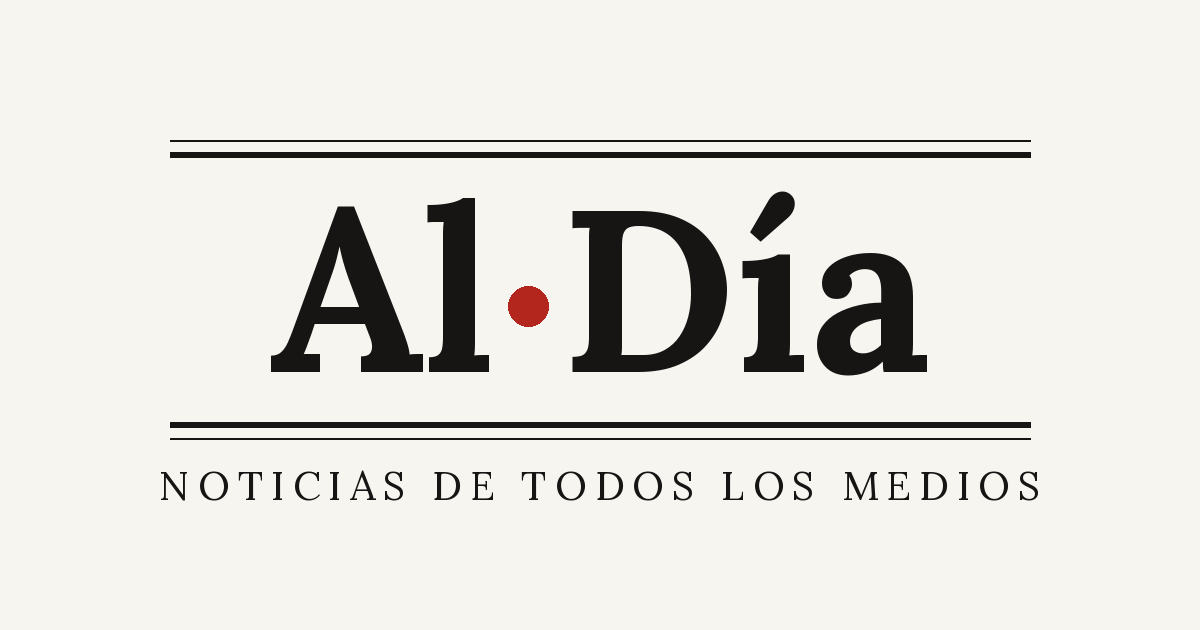
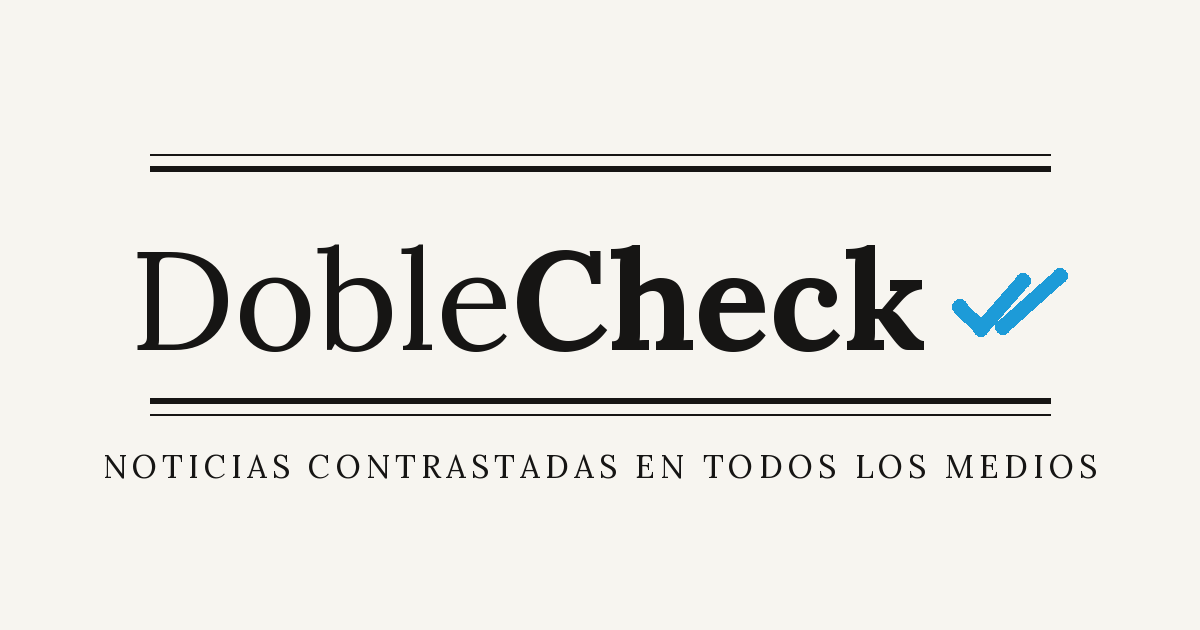
Nueva marca: DobleCheck ✓✓
- Web: logotipo DobleCheck con doble check azul; la insignia de medios lleva el doble check
- Telegram: cabecera 𝕯𝖔𝖇𝖑𝖊𝕮𝖍𝖊𝖈𝖐 ✓✓ y «Confirmada por N medios»
- Páginas para compartir, títulos y Open Graph con el nuevo nombre
- Logotipos del canal (marca/) e imagen para compartir (docs/og.png) nuevos

Claude-Session: https://claude.ai/code/session_012vF4AGN3cvLxcuT7Bb4TW5

Changed region(s): [[0.0925, 0.3016, 0.8942, 0.6032], [0.0925, 0.6333, 0.925, 0.8143], [0.1233, 0.2111, 0.8942, 0.2714]]

diff --git a/docs/index.html b/docs/index.html
@@ -3,11 +3,11 @@
 <head>
 <meta charset="utf-8">
 <meta name="viewport" content="width=device-width, initial-scale=1">
-<title>Al Día · Noticias de todos los medios</title>
+<title>DobleCheck · Noticias contrastadas en todos los medios</title>
 <meta name="description" content="Las noticias de todos los medios españoles, agrupadas y actualizadas cada 15 minutos.">
 <meta property="og:type" content="website">
-<meta property="og:site_name" content="Al·Día">
-<meta property="og:title" content="Al·Día · Noticias de todos los medios">
+<meta property="og:site_name" content="DobleCheck">
+<meta property="og:title" content="DobleCheck · Noticias contrastadas en todos los medios">
 <meta property="og:description" content="Las noticias de todos los medios españoles, agrupadas y actualizadas cada 15 minutos.">
 <meta property="og:image" content="og.png">
 <meta name="twitter:card" content="summary_large_image">
@@ -15,13 +15,13 @@
 <style>
   :root {
     --bg: #f7f5f0; --paper: #fff; --ink: #161514; --muted: #6b6760; --line: #e3dfd6;
-    --accent: #b3261e; --chip: #efebe3; --new: #1f6f43;
+    --accent: #b3261e; --chip: #efebe3; --new: #1f6f43; --check: #1d9bd8;
     --serif: "Iowan Old Style", "Palatino Linotype", Palatino, Georgia, serif;
     --sans: -apple-system, BlinkMacSystemFont, "Segoe UI", Roboto, Helvetica, Arial, sans-serif;
   }
   @media (prefers-color-scheme: dark) {
     :root { --bg: #141312; --paper: #1c1b19; --ink: #ece8e1; --muted: #a09a90; --line: #2e2c29;
-            --accent: #ff6b5e; --chip: #2a2825; --new: #5fc28a; }
+            --accent: #ff6b5e; --chip: #2a2825; --new: #5fc28a; --check: #53bdeb; }
   }
   * { box-sizing: border-box; }
   body { margin: 0; background: var(--bg); color: var(--ink); font-family: var(--sans); line-height: 1.45; }
@@ -29,8 +29,10 @@
   header { border-bottom: 3px double var(--line); background: var(--paper); }
   .wrap { max-width: 1120px; margin: 0 auto; padding: 0 20px; }
   .masthead { display: flex; align-items: baseline; justify-content: space-between; gap: 16px; padding: 18px 0 10px; flex-wrap: wrap; }
-  .logo { font-family: var(--serif); font-size: 34px; font-weight: 700; letter-spacing: -0.5px; text-decoration: none; }
-  .logo span { color: var(--accent); }
+  .logo { font-family: var(--serif); font-size: 34px; font-weight: 400; letter-spacing: -0.5px; text-decoration: none; white-space: nowrap; }
+  .logo b { font-weight: 700; }
+  .logo .ticks { width: 34px; height: 23px; color: var(--check); margin-left: 6px; vertical-align: -1px; }
+  .badge .ticks { width: 15px; height: 10px; margin-right: 4px; vertical-align: 0; }
   .meta { font-size: 13px; color: var(--muted); }
   .bar { display: flex; gap: 10px; padding: 10px 0 14px; flex-wrap: wrap; align-items: center; }
   .bar input[type=search] { flex: 1; min-width: 200px; padding: 9px 12px; border: 1px solid var(--line); border-radius: 8px;
@@ -52,7 +54,7 @@
   .card p { margin: 0; color: var(--muted); font-size: 14.5px; }
   .card.lead p { font-size: 16px; }
   .foot { margin-top: auto; display: flex; flex-wrap: wrap; gap: 6px; align-items: center; font-size: 12px; color: var(--muted); }
-  .badge { background: var(--accent); color: #fff; border-radius: 999px; padding: 2px 9px; font-weight: 600; }
+  .badge { background: var(--check); color: #fff; border-radius: 999px; padding: 2px 9px; font-weight: 600; }
   .chip { background: var(--chip); border-radius: 999px; padding: 2px 8px; }
   .hot { display: flex; align-items: center; gap: 8px; overflow-x: auto; padding: 8px 0 18px 10px; margin: -6px 0 0 -10px; scrollbar-width: none; }
   .hot::-webkit-scrollbar { display: none; }
@@ -118,7 +120,7 @@
 <header>
   <div class="wrap">
     <div class="masthead">
-      <a class="logo" href="#/">Al<span>·</span>Día</a>
+      <a class="logo" href="#/" aria-label="DobleCheck">Doble<b>Check</b><svg class="ticks" viewBox="0 0 18 12" aria-hidden="true"><path d="M1.5 6.5l3.2 3.2L11 2.5M7.6 9.2l.5.5L16.5 1.8" fill="none" stroke="currentColor" stroke-width="2" stroke-linecap="round" stroke-linejoin="round"/></svg></a>
       <div class="meta" id="meta">Cargando…</div>
     </div>
     <div class="bar" id="bar">
@@ -140,6 +142,7 @@
 // Funciona igual en GitHub Pages que con server.py.
 const $ = (s, el = document) => el.querySelector(s);
 const esc = s => String(s ?? "").replace(/[&<>"']/g, c => ({"&":"&amp;","<":"&lt;",">":"&gt;",'"':"&quot;","'":"&#39;"}[c]));
+const TICKS = '<svg class="ticks" viewBox="0 0 18 12" aria-hidden="true"><path d="M1.5 6.5l3.2 3.2L11 2.5M7.6 9.2l.5.5L16.5 1.8" fill="none" stroke="currentColor" stroke-width="2" stroke-linecap="round" stroke-linejoin="round"/></svg>';
 const safeUrl = u => /^https?:\/\//i.test(u || "") ? u : "";
 const fold = s => String(s || "").toLowerCase().normalize("NFD").replace(/[̀-ͯ]/g, "");
 const state = { min: 2, hours: 48, q: "" };
@@ -180,7 +183,7 @@ function card(s, i) {
       <h2>${esc(s.headline)}</h2>
       ${s.lead ? `<p>${esc(s.lead)}</p>` : ""}
       <div class="foot">
-        <span class="badge">${s.n_sources} ${s.n_sources === 1 ? "medio" : "medios"}</span>
+        <span class="badge">${s.n_sources > 1 ? TICKS : ""}${s.n_sources} ${s.n_sources === 1 ? "medio" : "medios"}</span>
         ${shown.map(x => `<span class="chip">${esc(x)}</span>`).join("")}
         ${more > 0 ? `<span>+${more}</span>` : ""}
         ${(s.intl || []).length ? `<span class="chip world" title="Cobertura internacional">${s.intl.map(c => c.flag).join(" ")}</span>` : ""}
@@ -205,7 +208,7 @@ function hotStrip() {
 
 function renderList() {
   $("#bar").style.display = "";
-  document.title = "Al Día · Noticias de todos los medios";
+  document.title = "DobleCheck · Noticias contrastadas en todos los medios";
   const since = Date.now() / 1000 - state.hours * 3600, q = fold(state.q.trim());
   const list = DATA.stories.filter(s => s.n_sources >= state.min && s.last_published >= since &&
     (!q || fold(s.headline + " " + s.lead + " " + s.articles.map(a => a.title).join(" ")).includes(q)));
@@ -265,7 +268,7 @@ function renderStory(id) {
   if (DATA.merged[id]) { location.replace(`#/noticia/${DATA.merged[id]}`); return; }
   const s = DATA.stories.find(x => String(x.id) === String(id));
   if (!s) { $("#app").innerHTML = `<div class="empty">Noticia no encontrada o ya archivada. <a href="#/">Volver a la portada</a></div>`; return; }
-  document.title = `${s.headline} · Al Día`;
+  document.title = `${s.headline} · DobleCheck`;
   const img = safeUrl(s.image);
   const body = (s.body || "").split(/\n{2,}/).filter(Boolean).map(p => `<p>${esc(p)}</p>`).join("");
   const pending = s.articles.filter(a => a.new_since_ai).length;
@@ -274,7 +277,7 @@ function renderStory(id) {
     <h1>${esc(s.headline)}</h1>
     ${s.lead ? `<p class="lead">${esc(s.lead)}</p>` : ""}
     <div class="foot" style="margin-bottom:8px">
-      <span class="badge">${s.n_sources} medios</span><span>${s.n_articles} artículos</span>
+      <span class="badge">${TICKS}${s.n_sources} medios</span><span>${s.n_articles} artículos</span>
       <span>· primera publicación ${hhmm(s.first_published)}</span><span>· última ${ago(s.last_published)}</span>
     </div>
     ${evolution(s)}

diff --git a/export.py b/export.py
@@ -81,10 +81,10 @@ def build_timeline(articles, updates=(), foreign=(), countries=None):
 
 PAGE = """<!DOCTYPE html>
 <html lang="es"><head><meta charset="utf-8">
-<title>{title} · Al·Día</title>
+<title>{title} · DobleCheck</title>
 <meta name="description" content="{desc}">
 <meta property="og:type" content="article">
-<meta property="og:site_name" content="Al·Día">
+<meta property="og:site_name" content="DobleCheck">
 <meta property="og:title" content="{title}">
 <meta property="og:description" content="{desc}">
 <meta property="og:image" content="{image}">
@@ -120,7 +120,7 @@ def write_share_pages(conn, pages_dir, site_url, days=7):
         while by_id.get(target_id) is not None and by_id[target_id]["status"] == "merged" and hops < 10:
             target_id, hops = by_id[target_id]["merged_into"], hops + 1
         t = by_id.get(target_id) or r
-        title = t["headline"] or t["rep_title"] or "Al·Día"
+        title = t["headline"] or t["rep_title"] or "DobleCheck"
         desc = (t["lead"] or t["rep_summary"] or "Noticias de todos los medios").strip()[:280]
         image = t["image"] if (t["image"] or "").startswith("http") else site_url + "og.png"
         target = f"{site_url}#/noticia/{target_id}"

diff --git a/config.py b/config.py
@@ -22,7 +22,7 @@ FETCH_TIMEOUT = _env("NEWS_FETCH_TIMEOUT", 15, int)
 FETCH_THREADS = _env("NEWS_FETCH_THREADS", 12, int)
 MAX_ARTICLE_AGE_H = _env("NEWS_MAX_ARTICLE_AGE_H", 48, int)  # se ignoran artículos más antiguos
 CLUSTER_ACTIVE_H = _env("NEWS_CLUSTER_ACTIVE_H", 72, int)    # una noticia sin novedades en este tiempo se cierra
-USER_AGENT = "Mozilla/5.0 (compatible; AgregadorNoticiasES/1.0)"
+USER_AGENT = "Mozilla/5.0 (compatible; DobleCheckNoticias/1.0)"
 
 # --- Algoritmo de agrupación ---
 # Puntuación mínima para añadir un artículo a una noticia existente (0-1).
@@ -58,7 +58,7 @@ TELEGRAM_MAX_UPDATES_PER_CYCLE = _env("TELEGRAM_MAX_UPDATES_PER_CYCLE", 4, int)
 TELEGRAM_UPDATE_EVERY_MIN = _env("TELEGRAM_UPDATE_EVERY_MIN", 30, int)  # por noticia
 # Cabecera "de periódico" con letras góticas Unicode (Telegram no permite elegir fuente).
 # Estos alfabetos no tienen tildes ni ñ: por eso solo se usan en la cabecera, no en titulares.
-TELEGRAM_HEADER = _env("TELEGRAM_HEADER", "𝕬𝖑·𝕯𝖎𝖆")
+TELEGRAM_HEADER = _env("TELEGRAM_HEADER", "𝕯𝖔𝖇𝖑𝖊𝕮𝖍𝖊𝖈𝖐 ✓✓")
 SITE_URL = _env("NEWS_SITE_URL", "https://alexample.github.io/noticias-espana/")
 
 # --- Web ---

diff --git a/telegram.py b/telegram.py
@@ -63,13 +63,13 @@ def page_url(cid):
 
 
 def _link(cid):
-    return f'<a href="{page_url(cid)}">Leer en Al·Día →</a>'
+    return f'<a href="{page_url(cid)}">Leer en DobleCheck →</a>'
 
 
 def _media_line(sources):
     n = len(sources)
     names = ", ".join(sources[:4]) + (f" y {n - 4} más" if n > 4 else "")
-    return f"📰 {n} medios: {_e(names)}"
+    return f"✅ Confirmada por {n} medios: {_e(names)}"
 
 
 def format_new(story, sources, flags):
@@ -85,7 +85,7 @@ def format_new(story, sources, flags):
 
 def format_update(story, note, n_sources):
     return "\n".join([f"{_e(config.TELEGRAM_HEADER)}  ·  <i>Actualización</i>", "",
-                      f"🔄 <b>{_e(note)}</b>", "", f"📰 Ya son {n_sources} medios", "", _link(story["id"])])
+                      f"🔄 <b>{_e(note)}</b>", "", f"✅ Ya la confirman {n_sources} medios", "", _link(story["id"])])
 
 
 def _sources(conn, cid):

diff --git a/tests/test_telegram.py b/tests/test_telegram.py
@@ -63,7 +63,7 @@ class TestTelegram(unittest.TestCase):
         worker.publish_telegram(self.conn, NOW + 1800, fresh_db=False, sender=f)
         self.assertEqual(len(f.sent), 4)
         self.assertIn("Nueva &lt;b&gt;gorda&lt;/b&gt;", f.sent[-1][0])
-        self.assertIn("📰 4 medios: Medio 0, Medio 1, Medio 2, Medio 3", f.sent[-1][0])
+        self.assertIn("✅ Confirmada por 4 medios: Medio 0, Medio 1, Medio 2, Medio 3", f.sent[-1][0])
 
     def test_actualizacion_responde_al_mensaje_original(self):
         self.story(1, 5, relevance=5)

diff --git a/README.md b/README.md
@@ -1,4 +1,4 @@
-# Al·Día — agregador de noticias de medios españoles
+# DobleCheck ✓✓ — noticias contrastadas en todos los medios españoles
 
 Una web que muestra las noticias más relevantes del momento, agrupando lo que
 publican ~30 medios españoles. Un **worker** lee sus RSS cada 5 minutos y un
